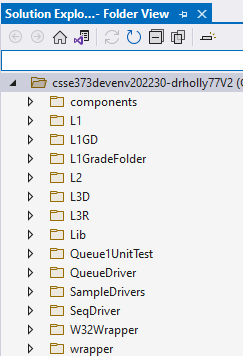
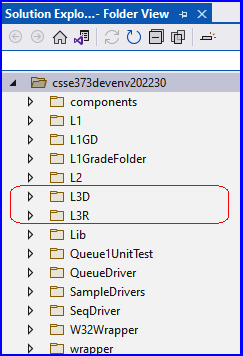
update L3

Changed region(s): [[0.0, 0.0, 1.0, 1.0], [0.9218, 0.5253, 0.9506, 0.618]]

diff --git a/Assignments/2022/Lab3/L3.html b/Assignments/2022/Lab3/L3.html
@@ -35,12 +35,12 @@
               <li>For this assignment you will be making changes to this file</li>
             </ul>
           </li>
-          <li>Copy List2.hpp to the following folder in your repo: <em>CppDevSp21\components\include\List </em></li>
+          <li>Copy List2.hpp to the following folder in your repo: <em>csse373devenv202230-yourID\components\include\List </em></li>
         </ul>
         <h4>1.3 Copy Folders from the L3Starter.zip</h4>
         <ul>
           <li>Inside L3Starter.zip are two folders named L3D and L3R </li>
-          <li>Copy both folders to your <em>CppDevSp21</em> folder as shown in the screen shot to the right</li>
+          <li>Copy both folders to your <em>csse373devenv202230-yourID</em> folder as shown in the screen shot to the right</li>
           <li>Once you copy these folders you can use VS2022 to open these projects by double clicking on L3D.sln (for the L3D project) and L3R.sln (for the L3R project) </li>
         </ul>
         <h4>1.4 About Project L3D and L3R</h4>
@@ -63,7 +63,7 @@
             </ul>
           </li>
         </ul></td>
-      <td valign="top"><p><img src="L3FolderView.png" width="259" height="399" alt=""/></p></td>
+      <td valign="top"><img src="L3FolderView.png" width="243" height="356" alt=""/> </td>
     </tr>
   </tbody>
 </table>
@@ -84,7 +84,7 @@
         <ol>
           <li>Start Visual Studio</li>
           <li>Open project L3D</li>
-          <li>Find and open List2.hpp (located in <em>CppDevSp21\components\include\List</em> folder)</li>
+          <li>Find and open List2.hpp (located in <em>csse373devenv202230-yourID\components\include\List</em> folder)</li>
           <li>Implement the 12 member functions - think strategically, some need to be done before others in order to for a unit test's &quot;Test set up&quot; part to work correctly<br>
           </li>
         </ol>
